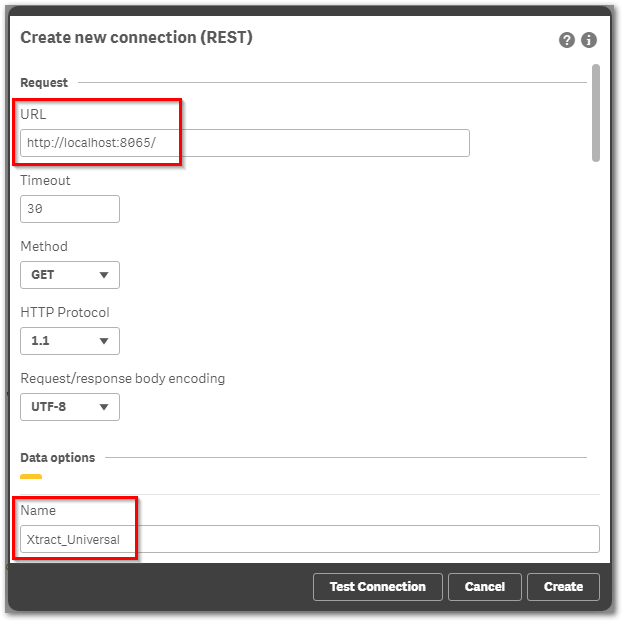
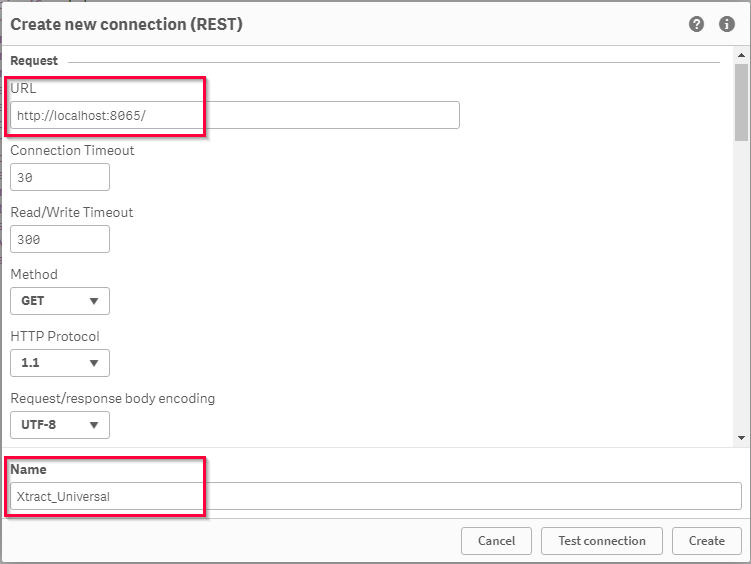
XU: New QlikSense Script

Changed region(s): [[0.0, 0.0, 1.0, 1.0], [0.61, 0.1809, 0.6404, 0.211]]

diff --git a/content/_en/xtract-universal/destinations/qliksense-qlikview.md b/content/_en/xtract-universal/destinations/qliksense-qlikview.md
@@ -76,23 +76,28 @@ Before copying the Qlik script generated by Xtract Universal to QlikSense, perfo
 
 1. Create a new data connection of type REST. <br>
 **Note**: In QlikSense the default value for the *Timeout* is 30 seconds. Increase the timeout to a sufficiently high value if the time till the first data package arrives from SAP is higher than 30 seconds. The maximum input value is 10.000 seconds.
-
 2. Enter the URL of the Xtract Universal Server and port into the URL text field. In the example below, the Xtract Universal server is running on `http://localhost:8065/`.
 3. Enter *Xtract_Universal* into the name text field.
 ![XU_qlik_QlikSense_data_connection](/img/content/XU_qlik_QlikSense_data_connection.png){:class="img-responsive"}
-
-4. Paste the QlikSense script from Xtract Universal into the QlikSense Data load editor.
+4. Activate the security option **Allow response headers**. This option ensures that error messages from Xtract Universal are passed to QlikSense.<br>
+![qlik-allow-response-headers](/img/content/xu/qlik-allow-response-headers.png){:class="img-responsive"}
+5. Paste the QlikSense script from Xtract Universal into the QlikSense Data load editor.
 ![XU_qlik_QlikSense_load_editor](/img/content/XU_qlik_QlikSense_load_editor.png){:class="img-responsive"}
 
 
+{: .box-warning }
+**Warning! The following error occurred: Response headers are denied by the current connection. Please edit your connection in order to enable response headers loading.**
+When this error message is displayed in the REST connection, activate the option "Allow response headers" in the *Security* settings of the connector.
+
 ### QlikSense Data Load Script Explanation
 
-1. Xtract Universal creates a QlikSense script that uses QlikSense [interpretation functions](https://help.qlik.com/en-US/sense/June2020/Subsystems/Hub/Content/Sense_Hub/Scripting/InterpretationFunctions/interpretation-functions.htm) *Num#*, *Text*, *Date* and *Time*. For fields, where an adequate data type can't be determined, no interpretation function is used.
-2. Xtract Universal creates a QlikSense script that assigns the field description and the SAP origin of the field as tags to all fields.
-3. Xtract Universal creates a QlikSense script that explicitly tags all date fields with *$date*. This function assures that fields containing a [date before January 1, 1980](https://help.qlik.com/en-US/sense/April2020/Subsystems/Hub/Content/Sense_Hub/Scripting/date-time-interpretation.htm) are recognized as date fields in QlikSense.
-4. The QlikSense script supports usage of Xtract Universal [Extraction Parameters](../execute-and-automate-extractions/extraction-parameters). <br>
+Xtract Universal creates a QlikSense script with the following properties:
+- The script uses QlikSense [interpretation functions](https://help.qlik.com/en-US/sense/June2020/Subsystems/Hub/Content/Sense_Hub/Scripting/InterpretationFunctions/interpretation-functions.htm) *Num#*, *Text*, *Date* and *Time*. For fields, where an adequate data type can't be determined, no interpretation function is used.
+- The field description and the SAP origin of the field are assigned as tags to all fields.
+- All date fields with *$date* are explicitly tagged. This function assures that fields containing a [date before January 1, 1980](https://help.qlik.com/en-US/sense/April2020/Subsystems/Hub/Content/Sense_Hub/Scripting/date-time-interpretation.htm) are recognized as date fields in QlikSense.
+- The usage of Xtract Universal [Extraction Parameters](../execute-and-automate-extractions/extraction-parameters) is supported. 
+To make parameters available in the QlikSense script, activate the parameters in the "Run Extraction" window of the Xtract Universal Designer.<br>
 ![XU_qlik_QlikSense_XUParameter](/img/content/XU_qlik_QlikSense_XUParameter.png){:class="img-responsive"}
-![XU_qlik_QlikSense_XUParameter_Log2](/img/content/XU_qlik_QlikSense_XUParameter_Log2.png){:class="img-responsive"}
 
 {: .box-note }
 **Note:** Do not change the assigned value of variables *xuOriginDateFormat* and *xuOriginTimeFormat*.
@@ -101,7 +106,7 @@ The chosen format enables Xtract Universal to send the data of date and time fie
 
 ## Migration from Xtract QV
 
-You have Xtract QV installed, have defined your SAP source system(s) and extractions and use them as a datasource in your qlik applications.
+You have Xtract QV installed, have defined your SAP source system(s) and extractions and use them as a data source in your qlik applications.
 
 If you want to migrate this scenario to Xtract Universal, refer to [info@theobald-software.com](mailto:info@theobald-software.com) or [info@us.theobald-software.com](mailto:info@us.theobald-software.com).
 We will provide you with all relevant information regarding this migration process.

diff --git a/content/_de/xtract-universal/destinationen/qlik.md b/content/_de/xtract-universal/destinationen/qlik.md
@@ -80,18 +80,25 @@ Bevor Sie das von Xtract Universal generierte Qlik-Skript nach QlikSense kopiere
 2. Geben Sie die URL des Xtract Universal Servers und den Port in das URL-Textfeld ein. Im Beispiel unten läuft der Xtract Universal Server auf `http://localhost:8065/`.
 3. Geben Sie *Xtract_Universal* in das Textfeld für den Namen ein.
 ![XU_qlik_QlikSense_data_connection](/img/content/XU_qlik_QlikSense_data_connection.png){:class="img-responsive"}
-4. Fügen Sie das QlikSense-Skript aus Xtract Universal in den Data-Load-Editor von QlikSense ein.
+4. Aktivieren Sie die Security Option **Allow response headers**. Dadurch werden Fehlermeldungen aus Xtract Universal an QlikSense weitergereicht.<br>
+![qlik-allow-response-headers](/img/content/xu/qlik-allow-response-headers.png){:class="img-responsive"}
+5. Fügen Sie das QlikSense-Skript aus Xtract Universal in den Data-Load-Editor von QlikSense ein.
 ![XU_qlik_QlikSense_load_editor](/img/content/XU_qlik_QlikSense_load_editor.png){:class="img-responsive"}
-	
 
-### Erläuterung des QlikSense Datenlade-Skripts 
 
-1. Xtract Universal erstellt ein QlikSense-Skript, das die [QlikSense-Interpretationsfunktionen](https://help.qlik.com/en-US/sense/June2020/Subsystems/Hub/Content/Sense_Hub/Scripting/InterpretationFunctions/interpretation-functions.htm) *Num#*, *Text*, *Datum* und *Zeit* verwendet. Für Felder, für die kein adäquater Datentyp bestimmt werden kann, wird keine Interpretationsfunktion verwendet. 
-2. Xtract Universal erstellt ein QlikSense-Skript, das allen Feldern die Feldbeschreibung und die SAP-Herkunft des Feldes als Tags zuordnet.
-3. Xtract Universal erstellt ein QlikSense-Skript, das alle Datumsfelder explizit mit *$date* markiert. Diese Funktion stellt sicher, dass Felder, die ein [Datum vor dem 1. Januar 1980](https://help.qlik.com/en-US/sense/April2020/Subsystems/Hub/Content/Sense_Hub/Scripting/date-time-interpretation.htm) enthalten, in QlikSense als Datumsfelder erkannt werden.
-4. Das QlikSense-Skript unterstützt die Verwendung von Xtract Universal [Extraktionsparameter](../extraktionen-ausfuehren-und-einplanen/extraktionsparameter). <br>
-![XU_qlik_QlikSense_XUParameter](/img/content/XU_qlik_QlikSense_XUParameter.png){:class="img-responsive"}<br>
-![XU_qlik_QlikSense_XUParameter_Log2](/img/content/XU_qlik_QlikSense_XUParameter_Log2.png){:class="img-responsive"}
+{: .box-warning }
+**Warnung! The following error occurred: Response headers are denied by the current connection. Please edit your connection in order to enable response headers loading.""
+Wenn diese Fehlermeldung in der REST Verbindung angezeigt wird, aktivieren Sie in der Datenverbindung unter *Security* die Option "Allow response headers".
+
+#### Erläuterung des QlikSense Datenlade-Skripts 
+
+Das von Xtract Universal erstellte QlikSense-Skript hat folgende Eigenschaften:
+- Die [QlikSense-Interpretationsfunktionen](https://help.qlik.com/en-US/sense/June2020/Subsystems/Hub/Content/Sense_Hub/Scripting/InterpretationFunctions/interpretation-functions.htm) *Num#*, *Text*, *Datum* und *Zeit* werden verwendet. Für Felder, für die kein adäquater Datentyp bestimmt werden kann, wird keine Interpretationsfunktion verwendet. 
+- Die Feldbeschreibung und die SAP-Herkunft der Feldes werden den Feldern als Tags zuordnet.
+- Alle Datumsfelder  werden explizit mit *$date* markiert. Diese Funktion stellt sicher, dass Felder, die ein [Datum vor dem 1. Januar 1980](https://help.qlik.com/en-US/sense/April2020/Subsystems/Hub/Content/Sense_Hub/Scripting/date-time-interpretation.htm) enthalten, in QlikSense als Datumsfelder erkannt werden.
+- Das QlikSense-Skript unterstützt die Verwendung von Xtract Universal [Extraktionsparameter](../extraktionen-ausfuehren-und-einplanen/extraktionsparameter).
+Um die Parameter im QlikSense-Skript verfügbar zu machen, aktivieren Sie die Parameter im "Run Extraction" Fenster des Xtract Universal Designers.<br>
+![XU_qlik_QlikSense_XUParameter](/img/content/XU_qlik_QlikSense_XUParameter.png){:class="img-responsive"}
 
 {: .box-note }
 **Hinweis:** Ändern Sie nicht den zugewiesenen Wert der Variablen *xuOriginDateFormat* und *xuOriginTimeFormat*.
